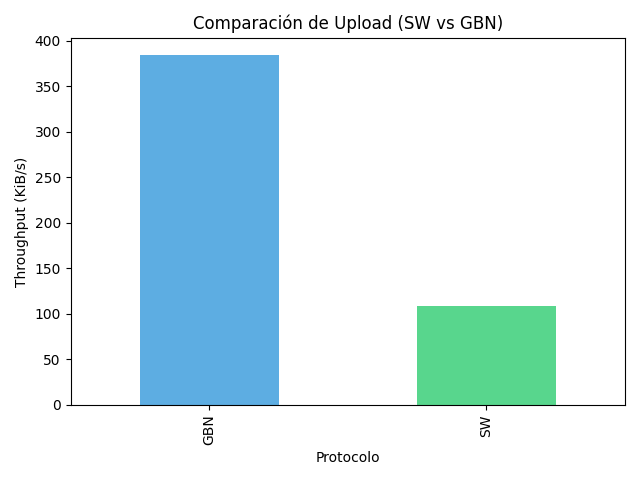
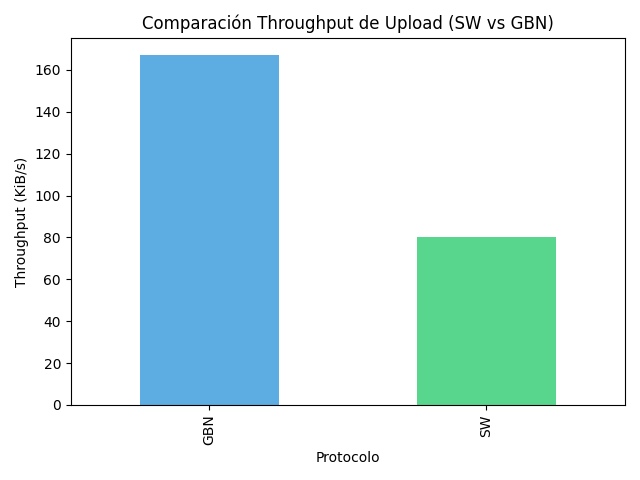
Agrego el pluging de wireshark. Modifico los scripts de metricas

diff --git a/comparacion_upload_download.py b/comparacion_upload_download.py
@@ -16,11 +16,11 @@ df_upload.groupby("protocolo")["throughput_kib_s"].mean().plot(
     yerr=df_upload.groupby("protocolo")["throughput_kib_s"].std(),
     color=["#5DADE2", "#58D68D"]
 )
-plt.title("Comparación de Upload (SW vs GBN)")
+plt.title("Comparación Throughput de Upload (SW vs GBN)")
 plt.ylabel("Throughput (KiB/s)")
 plt.xlabel("Protocolo")
 plt.tight_layout()
-plt.savefig(os.path.join(metricas_dir, "comparacion_throughput_upload.png"))
+plt.savefig(os.path.join(metricas_dir, "comparacion_throughput_upload_20%.png"))
 plt.close()
 
 # === GRAFICO 2: Download (Stop & Wait vs Go-Back-N) ===
@@ -30,13 +30,13 @@ df_download.groupby("protocolo")["throughput_kib_s"].mean().plot(
     yerr=df_download.groupby("protocolo")["throughput_kib_s"].std(),
     color=["#F5B041", "#BB8FCE"]
 )
-plt.title("Comparación de Download (SW vs GBN)")
+plt.title("Comparación Throughput de Download (SW vs GBN)")
 plt.ylabel("Throughput (KiB/s)")
 plt.xlabel("Protocolo")
 plt.tight_layout()
-plt.savefig(os.path.join(metricas_dir, "comparacion_throughput_download.png"))
+plt.savefig(os.path.join(metricas_dir, "comparacion_throughput_download_20%.png"))
 plt.close()
 
 print("Gráficos generados:")
-print(f"- {os.path.join(metricas_dir, 'comparacion_upload.png')}")
-print(f"- {os.path.join(metricas_dir, 'comparacion_download.png')}")
+print(f"- {os.path.join(metricas_dir, 'comparacion_throughput_upload_20%.png')}")
+print(f"- {os.path.join(metricas_dir, 'comparacion_throughput_download_20%.png')}")

diff --git a/comparacion_duracion_upload_download.py b/comparacion_duracion_upload_download.py
@@ -24,7 +24,7 @@ plt.title("Duración de Upload (SW vs GBN)")
 plt.ylabel("Duración promedio (s)")
 plt.xlabel("Protocolo")
 plt.tight_layout()
-plt.savefig(os.path.join(metricas_dir, "duracion_upload.png"))
+plt.savefig(os.path.join(metricas_dir, "duracion_upload_20%.png"))
 plt.close()
 
 # === GRAFICO 2: Duración Download (Stop & Wait vs Go-Back-N) ===
@@ -38,9 +38,9 @@ plt.title("Duración de Download (SW vs GBN)")
 plt.ylabel("Duración promedio (s)")
 plt.xlabel("Protocolo")
 plt.tight_layout()
-plt.savefig(os.path.join(metricas_dir, "duracion_download.png"))
+plt.savefig(os.path.join(metricas_dir, "duracion_download_20%.png"))
 plt.close()
 
 print(" Gráficos generados:")
-print(f"- {os.path.join(metricas_dir, 'duracion_upload.png')}")
-print(f"- {os.path.join(metricas_dir, 'duracion_download.png')}")
+print(f"- {os.path.join(metricas_dir, 'duracion_upload_20%.png')}")
+print(f"- {os.path.join(metricas_dir, 'duracion_download_20%.png')}")

diff --git a/analizar_pcap.py b/analizar_pcap.py
@@ -42,14 +42,13 @@ for fname in sorted(os.listdir(pcap_dir)):
     # Captura con PyShark (solo paquetes UDP de tu puerto o protocolo)
     with pyshark.FileCapture(path, display_filter="udp && udp.port==5005") as pcap:
         tiempos = []
-        bytes_totales = 0
+        bytes_totales = 5242880 
 
         for pkt in pcap:
             # Filtrar solo tus paquetes personalizados (UDPFT_CUSTOM)
-            if "UDPFT_CUSTOM" not in pkt.highest_layer:
+            if "UDPFT" not in pkt.highest_layer:
                 continue
             tiempos.append(float(pkt.sniff_timestamp))
-            bytes_totales += int(pkt.length)
 
         if tiempos:
             duracion = max(tiempos) - min(tiempos)
